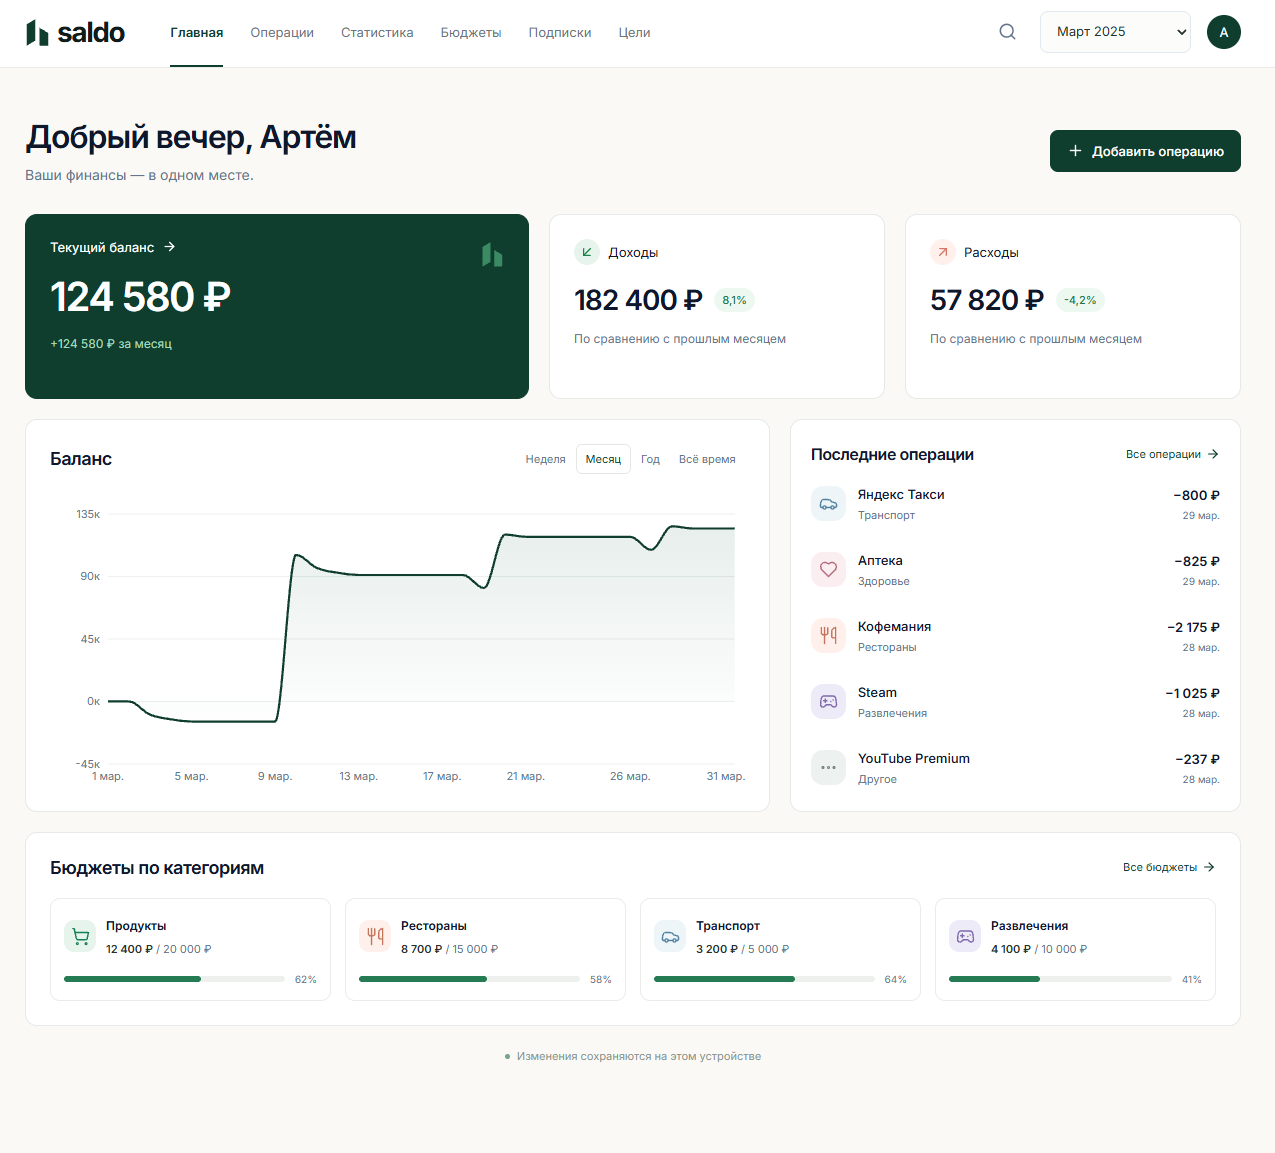
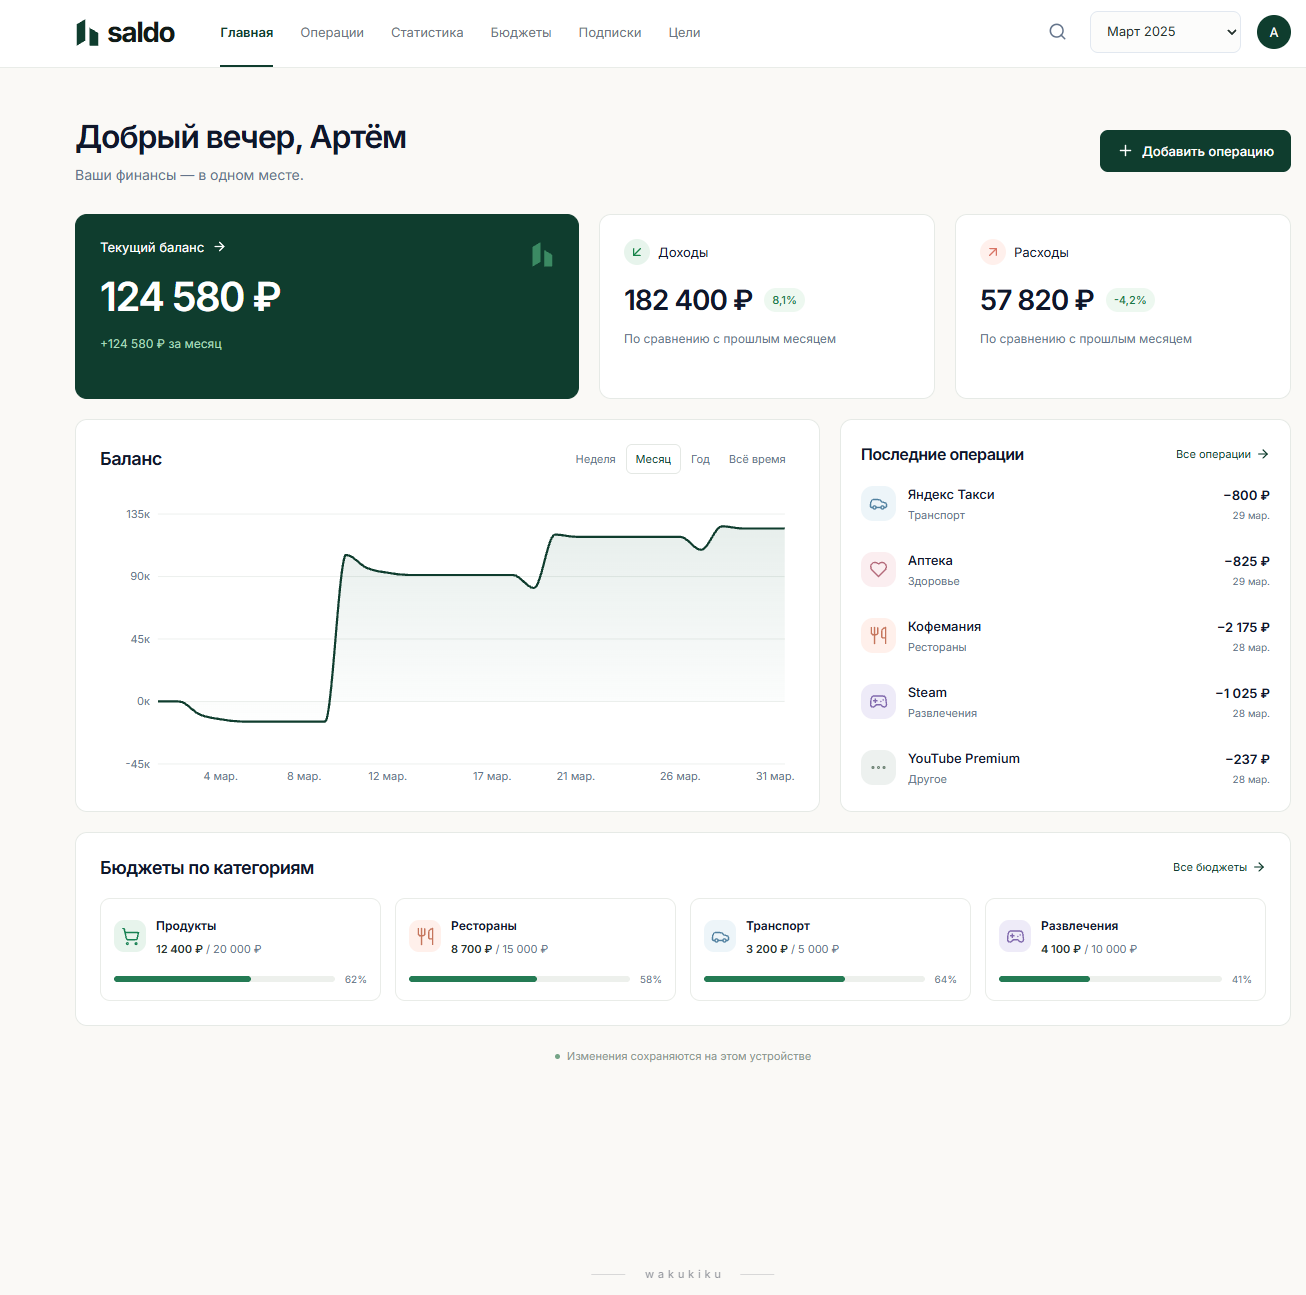
Обновление проекта

diff --git a/src/styles.css b/src/styles.css
@@ -10,6 +10,7 @@
   --muted: #64748b;
   --border: #e2e8f0;
   --surface: #fff;
+  --text: #0f172a;
   --radius: 12px;
 }
 * {
@@ -1584,6 +1585,67 @@ dd {
     font-size: 12px;
   }
 }
+
+
+/* Shared wakukiku author mark */
+.author-mark {
+  position: fixed;
+  left: 50%;
+  bottom: calc(13px + env(safe-area-inset-bottom));
+  z-index: 90;
+  transform: translateX(-50%);
+  pointer-events: none;
+}
+
+.author-mark a {
+  display: flex;
+  align-items: center;
+  gap: 16px;
+  padding: 8px 10px;
+  color: var(--text);
+  opacity: 0.42;
+  text-decoration: none;
+  pointer-events: auto;
+  transition:
+    transform 420ms cubic-bezier(0.22, 1, 0.36, 1),
+    opacity 280ms ease;
+}
+
+.author-name {
+  padding-left: 0.34em;
+  font-size: 11px;
+  line-height: 1;
+  font-weight: 500;
+  letter-spacing: 0.34em;
+}
+
+.author-line {
+  width: 34px;
+  height: 1px;
+  background: currentColor;
+  opacity: 0.35;
+  transition: width 420ms cubic-bezier(0.22, 1, 0.36, 1);
+}
+
+@media (hover: hover) and (pointer: fine) {
+  .author-mark a:hover {
+    transform: scale(1.1);
+    opacity: 0.86;
+  }
+
+  .author-mark a:hover .author-line {
+    width: 42px;
+  }
+}
+
+@media (max-width: 640px) {
+  .author-mark {
+    /* SALDO has a fixed bottom navigation on mobile.
+       Keep the shared mark intact, only lift it above the nav. */
+    bottom: calc(78px + env(safe-area-inset-bottom));
+  }
+}
+
 @media (prefers-reduced-motion: reduce) {
   *,
   *:before,

diff --git a/src/main.tsx b/src/main.tsx
@@ -41,6 +41,7 @@ const Subscriptions = lazy(() =>
 const Goals = lazy(() => import("./pages").then((m) => ({ default: m.Goals })));
 import { Editor, type Overlay } from "./editors";
 import { Logo } from "./ui";
+import { AuthorMark } from "./AuthorMark";
 import { monthLabel, useStore, type Transaction } from "./store";
 import "./styles.css";
 const nav = [
@@ -240,6 +241,7 @@ function App() {
           notify={setToast}
         />
       )}
+      <AuthorMark />
       <div className="toast-region" aria-live="polite">
         {toast && (
           <div className="toast">

diff --git a/src/AuthorMark.tsx b/src/AuthorMark.tsx
@@ -1,0 +1,16 @@
+export function AuthorMark() {
+  return (
+    <footer className="author-mark" aria-label="Автор проекта">
+      <a
+        href="https://github.com/wakukiku"
+        target="_blank"
+        rel="noopener noreferrer"
+        aria-label="wakukiku"
+      >
+        <span className="author-line" aria-hidden="true" />
+        <span className="author-name">wakukiku</span>
+        <span className="author-line" aria-hidden="true" />
+      </a>
+    </footer>
+  );
+}
